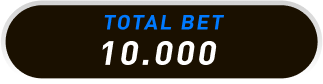
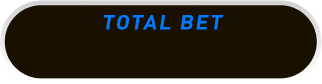
feat: add zustand and bet logic

diff --git a/src/components/blocks/Casino/betControls/index.tsx b/src/components/blocks/Casino/betControls/index.tsx
@@ -2,6 +2,7 @@ import React from "react";
 import {
   BetButtonsContainer,
   BetControlsContainer,
+  TotalBetQuantityContainer,
 } from "@/components/blocks/Casino/betControls/styled";
 import SpinButton from "@/components/blocks/Casino/buttons/spinButton";
 import MaxBetButton from "@/components/blocks/Casino/buttons/maxBetButton";
@@ -10,31 +11,39 @@ import ChangeBetButton from "@/components/blocks/Casino/buttons/changeBetButton"
 import PlusBetButtonIcon from "@/components/blocks/Casino/buttons/changeBetButton/icons/PlusBetButtonIcon";
 import MinusBetButtonIcon from "@/components/blocks/Casino/buttons/changeBetButton/icons/MinusBetButtonIcon";
 import AllInBetButtonIcon from "@/components/blocks/Casino/buttons/changeBetButton/icons/AllInBetButtonIcon";
+import useCasinoStore from "@/stores/casino/casinoStore";
+import { getFormattedNumber } from "@/lib/utils";
 
 interface BetControlsProps {
   handleSpinButton: () => void;
 }
 
 const BetControls = ({ handleSpinButton }: BetControlsProps) => {
+  const { increaseBet, decreaseBet, maxBet, totalBet } = useCasinoStore();
   return (
     <BetControlsContainer>
       <ChangeBetButton
+        onClick={() => {}}
         bgColor={"#420000"}
         buttonIcon={<AllInBetButtonIcon />}
       />
       <BetButtonsContainer>
         <ChangeBetButton
+          onClick={decreaseBet}
           bgColor={"#001430"}
           buttonIcon={<MinusBetButtonIcon />}
         />
+        <TotalBetQuantityContainer>
+          {getFormattedNumber(totalBet)}
+        </TotalBetQuantityContainer>
         <ChangeBetButton
+          onClick={increaseBet}
           bgColor={"#001430"}
           buttonIcon={<PlusBetButtonIcon />}
         />
       </BetButtonsContainer>
-
       <TotalWin />
-      <MaxBetButton />
+      <MaxBetButton onClick={maxBet} />
       <SpinButton onClick={handleSpinButton} />
     </BetControlsContainer>
   );

diff --git a/src/stores/casino/casinoStore.ts b/src/stores/casino/casinoStore.ts
@@ -1,0 +1,62 @@
+import { create } from "zustand";
+
+interface CasinoStore {
+  balance: number;
+  minusBalance: (quantity: number) => void;
+  plusBalance: (quantity: number) => void;
+  totalBet: number;
+  totalWin: number;
+  increaseBet: () => void;
+  decreaseBet: () => void;
+  changeTotalWin: (quantity: number) => void;
+  maxBet: () => void;
+}
+
+const useCasinoStore = create<CasinoStore>((set) => {
+  const initialState: CasinoStore = {
+    balance: 25,
+    totalBet: 1,
+    totalWin: 0,
+    minusBalance: (quantity) => {
+      set((state) => {
+        const newBalance = state.balance - quantity;
+        return { balance: newBalance };
+      });
+    },
+    plusBalance: (quantity) => {
+      set((state) => {
+        const newBalance = state.balance + quantity;
+        return { balance: newBalance };
+      });
+    },
+    increaseBet: () => {
+      set((state) => {
+        return {
+          totalBet:
+            state.totalBet + 1 > state.balance
+              ? state.balance
+              : state.totalBet + 1,
+        };
+      });
+    },
+    decreaseBet: () => {
+      set((state) => {
+        return { totalBet: state.totalBet - 1 > 0 ? state.totalBet - 1 : 0 };
+      });
+    },
+    maxBet: () => {
+      set((state) => {
+        return { totalBet: state.balance };
+      });
+    },
+    changeTotalWin: (quantity) => {
+      set((state) => {
+        return { totalWin: quantity };
+      });
+    },
+  };
+
+  return initialState;
+});
+
+export default useCasinoStore;

diff --git a/src/components/blocks/Casino/slotMachine/index.tsx b/src/components/blocks/Casino/slotMachine/index.tsx
@@ -10,6 +10,7 @@ import Dollar2 from "@/components/blocks/Casino/icons/Dollar2";
 import Dollar3 from "@/components/blocks/Casino/icons/Dollar3";
 import Dollar4 from "@/components/blocks/Casino/icons/Dollar4";
 import Reel, { slots } from "@/components/blocks/Casino/slotMachine/reel";
+import useCasinoStore from "@/stores/casino/casinoStore";
 
 const dollarsArray = [
   {
@@ -38,9 +39,11 @@ const SlotMachine: React.FC = () => {
   const [spinning, setSpinning] = useState(false);
   const [results, setResults] = useState<number[]>([0, 1, 2]);
   const [isWin, setIsWin] = useState(false);
+  const { minusBalance, balance, changeTotalWin, plusBalance, totalBet } =
+    useCasinoStore();
 
   const handleSpin = () => {
-    if (!spinning) {
+    if (!spinning && balance > 0) {
       setSpinning(true);
 
       const newResults = [
@@ -56,7 +59,12 @@ const SlotMachine: React.FC = () => {
           newResults[1] === newResults[2]
         ) {
           setIsWin(true);
+          plusBalance(totalBet * 5);
+          changeTotalWin(totalBet * 5);
           setTimeout(() => setIsWin(false), 1500);
+        } else {
+          minusBalance(totalBet);
+          changeTotalWin(0);
         }
       }, 3000);
     }

diff --git a/src/app/page.tsx b/src/app/page.tsx
@@ -1,3 +1,4 @@
+"use client";
 import "./globals.css";
 import SpinBlock from "../components/blocks/SpinBlock";
 import About from "@/components/blocks/About";
@@ -10,14 +11,18 @@ import Tweets from "@/components/blocks/Tweets";
 import BackgroundGambleSecond from "@/components/blocks/BackgroundGamble/second";
 import Footer from "@/components/blocks/Footer";
 import Header from "@/components/blocks/Header/Header";
+import React from "react";
+import useCasinoStore from "@/stores/casino/casinoStore";
 
 export default function Home() {
+  const { balance } = useCasinoStore();
   return (
     <main>
       <WelcomeBlock>
         <Header />
       </WelcomeBlock>
       <SpinBlock />
+      <h1 style={{ textAlign: "center" }}>Balance: {balance}</h1>
       <Casino />
       <About />
       <Roadmap />

diff --git a/src/components/blocks/Casino/buttons/changeBetButton/index.tsx b/src/components/blocks/Casino/buttons/changeBetButton/index.tsx
@@ -3,16 +3,20 @@ import {
   ChangeBetButtonBackground,
   ChangeBetButtonContainer,
 } from "@/components/blocks/Casino/buttons/changeBetButton/styled";
-import MinusBetButtonIcon from "@/components/blocks/Casino/buttons/changeBetButton/icons/MinusBetButtonIcon";
 
 interface ChangeBetButtonProps {
   buttonIcon: React.ReactNode;
   bgColor: string;
+  onClick: () => void;
 }
 
-const ChangeBetButton = ({ buttonIcon, bgColor }: ChangeBetButtonProps) => {
+const ChangeBetButton = ({
+  buttonIcon,
+  bgColor,
+  onClick,
+}: ChangeBetButtonProps) => {
   return (
-    <ChangeBetButtonBackground $bgColor={bgColor}>
+    <ChangeBetButtonBackground onClick={onClick} $bgColor={bgColor}>
       <ChangeBetButtonContainer>{buttonIcon}</ChangeBetButtonContainer>
     </ChangeBetButtonBackground>
   );

diff --git a/src/components/blocks/Casino/totalWin/index.tsx b/src/components/blocks/Casino/totalWin/index.tsx
@@ -1,8 +1,17 @@
 import React from "react";
-import { TotalWinContainer } from "@/components/blocks/Casino/totalWin/styled";
+import {
+  TotalWinContainer,
+  TotalWinQuantityContainer,
+} from "@/components/blocks/Casino/totalWin/styled";
+import useCasinoStore from "@/stores/casino/casinoStore";
 
 const TotalWin = () => {
-  return <TotalWinContainer></TotalWinContainer>;
+  const { totalWin } = useCasinoStore();
+  return (
+    <TotalWinContainer>
+      <TotalWinQuantityContainer>{totalWin}</TotalWinQuantityContainer>
+    </TotalWinContainer>
+  );
 };
 
 export default TotalWin;

diff --git a/src/components/blocks/Casino/buttons/maxBetButton/index.tsx b/src/components/blocks/Casino/buttons/maxBetButton/index.tsx
@@ -5,9 +5,13 @@ import {
 } from "@/components/blocks/Casino/buttons/maxBetButton/styled";
 import MaxBetButtonIcon from "@/components/blocks/Casino/buttons/maxBetButton/icons/MaxBetButtonIcon";
 
-const MaxBetButton = () => {
+interface MaxBetButtonProps {
+  onClick: () => void;
+}
+
+const MaxBetButton = ({ onClick }: MaxBetButtonProps) => {
   return (
-    <MaxBetButtonBackground>
+    <MaxBetButtonBackground onClick={onClick}>
       <MaxBetButtonContainer>
         <MaxBetButtonIcon />
       </MaxBetButtonContainer>

diff --git a/src/lib/utils.ts b/src/lib/utils.ts
@@ -1,12 +1,3 @@
-export function getRandomValueFromArray(arr: any[]) {
-  // Ensure the array is not empty
-  if (arr.length === 0) {
-    throw new Error("Array is empty");
-  }
-
-  // Get a random index
-  const randomIndex = Math.floor(Math.random() * arr.length);
-
-  // Return the element at the random index
-  return arr[randomIndex];
-}
+export const getFormattedNumber = (value: number): string => {
+  return value.toString().replace(/\B(?=(\d{3})+(?!\d))/g, ".");
+};

diff --git a/src/components/blocks/BackgroundGamble/first/styled.tsx b/src/components/blocks/BackgroundGamble/first/styled.tsx
@@ -9,4 +9,20 @@ export const FirstBackgroundGambleContainer = styled.div`
   margin: 0 auto 82px;
   width: 100%;
   height: 800px;
+
+  position: relative;
+`;
+
+export const SmoothTransitionBlock = styled.div`
+  position: absolute;
+  top: -34px;
+  left: 0;
+  min-width: 1440px;
+  height: 80px;
+  background-image: radial-gradient(
+    50.16% 38.46% at 49.19% 38.59%,
+    rgb(45 10 8) 26.34%,
+    rgb(89 32 171 / 0%) 100%
+  );
+  pointer-events: none;
 `;

diff --git a/src/components/blocks/Casino/buttons/spinButton/index.tsx b/src/components/blocks/Casino/buttons/spinButton/index.tsx
@@ -4,9 +4,11 @@ import {
   SpinButtonContainer,
 } from "@/components/blocks/Casino/buttons/spinButton/styled";
 import SpinButtonIcon from "@/components/blocks/Casino/buttons/spinButton/icons/SpinButtonIcon";
+
 interface SpinButtonProps {
   onClick: () => void;
 }
+
 const SpinButton = ({ onClick }: SpinButtonProps) => {
   return (
     <SpinButtonBackground onClick={onClick}>

diff --git a/src/components/blocks/Casino/totalWin/styled.tsx b/src/components/blocks/Casino/totalWin/styled.tsx
@@ -7,4 +7,13 @@ export const TotalWinContainer = styled.div`
   background-size: cover;
   width: 288px;
   height: 104px;
+  display: flex;
+  align-items: end;
+  justify-content: center;
+`;
+export const TotalWinQuantityContainer = styled.span`
+  font-size: 36px;
+  margin-bottom: 10px;
+  font-style: italic;
+  transform: rotateX(28deg);
 `;

diff --git a/src/components/blocks/Casino/slotMachine/reel/styled.tsx b/src/components/blocks/Casino/slotMachine/reel/styled.tsx
@@ -47,5 +47,5 @@ export const ReelItem = styled.div<{ $index: number }>`
   justify-content: center;
   backface-visibility: hidden;
   transform: rotateX(${({ $index }) => $index * (360 / slots.length)}deg)
-    translateZ(120px); /* Создание цилиндра */
+    translateZ(106px); /* Создание цилиндра */
 `;
